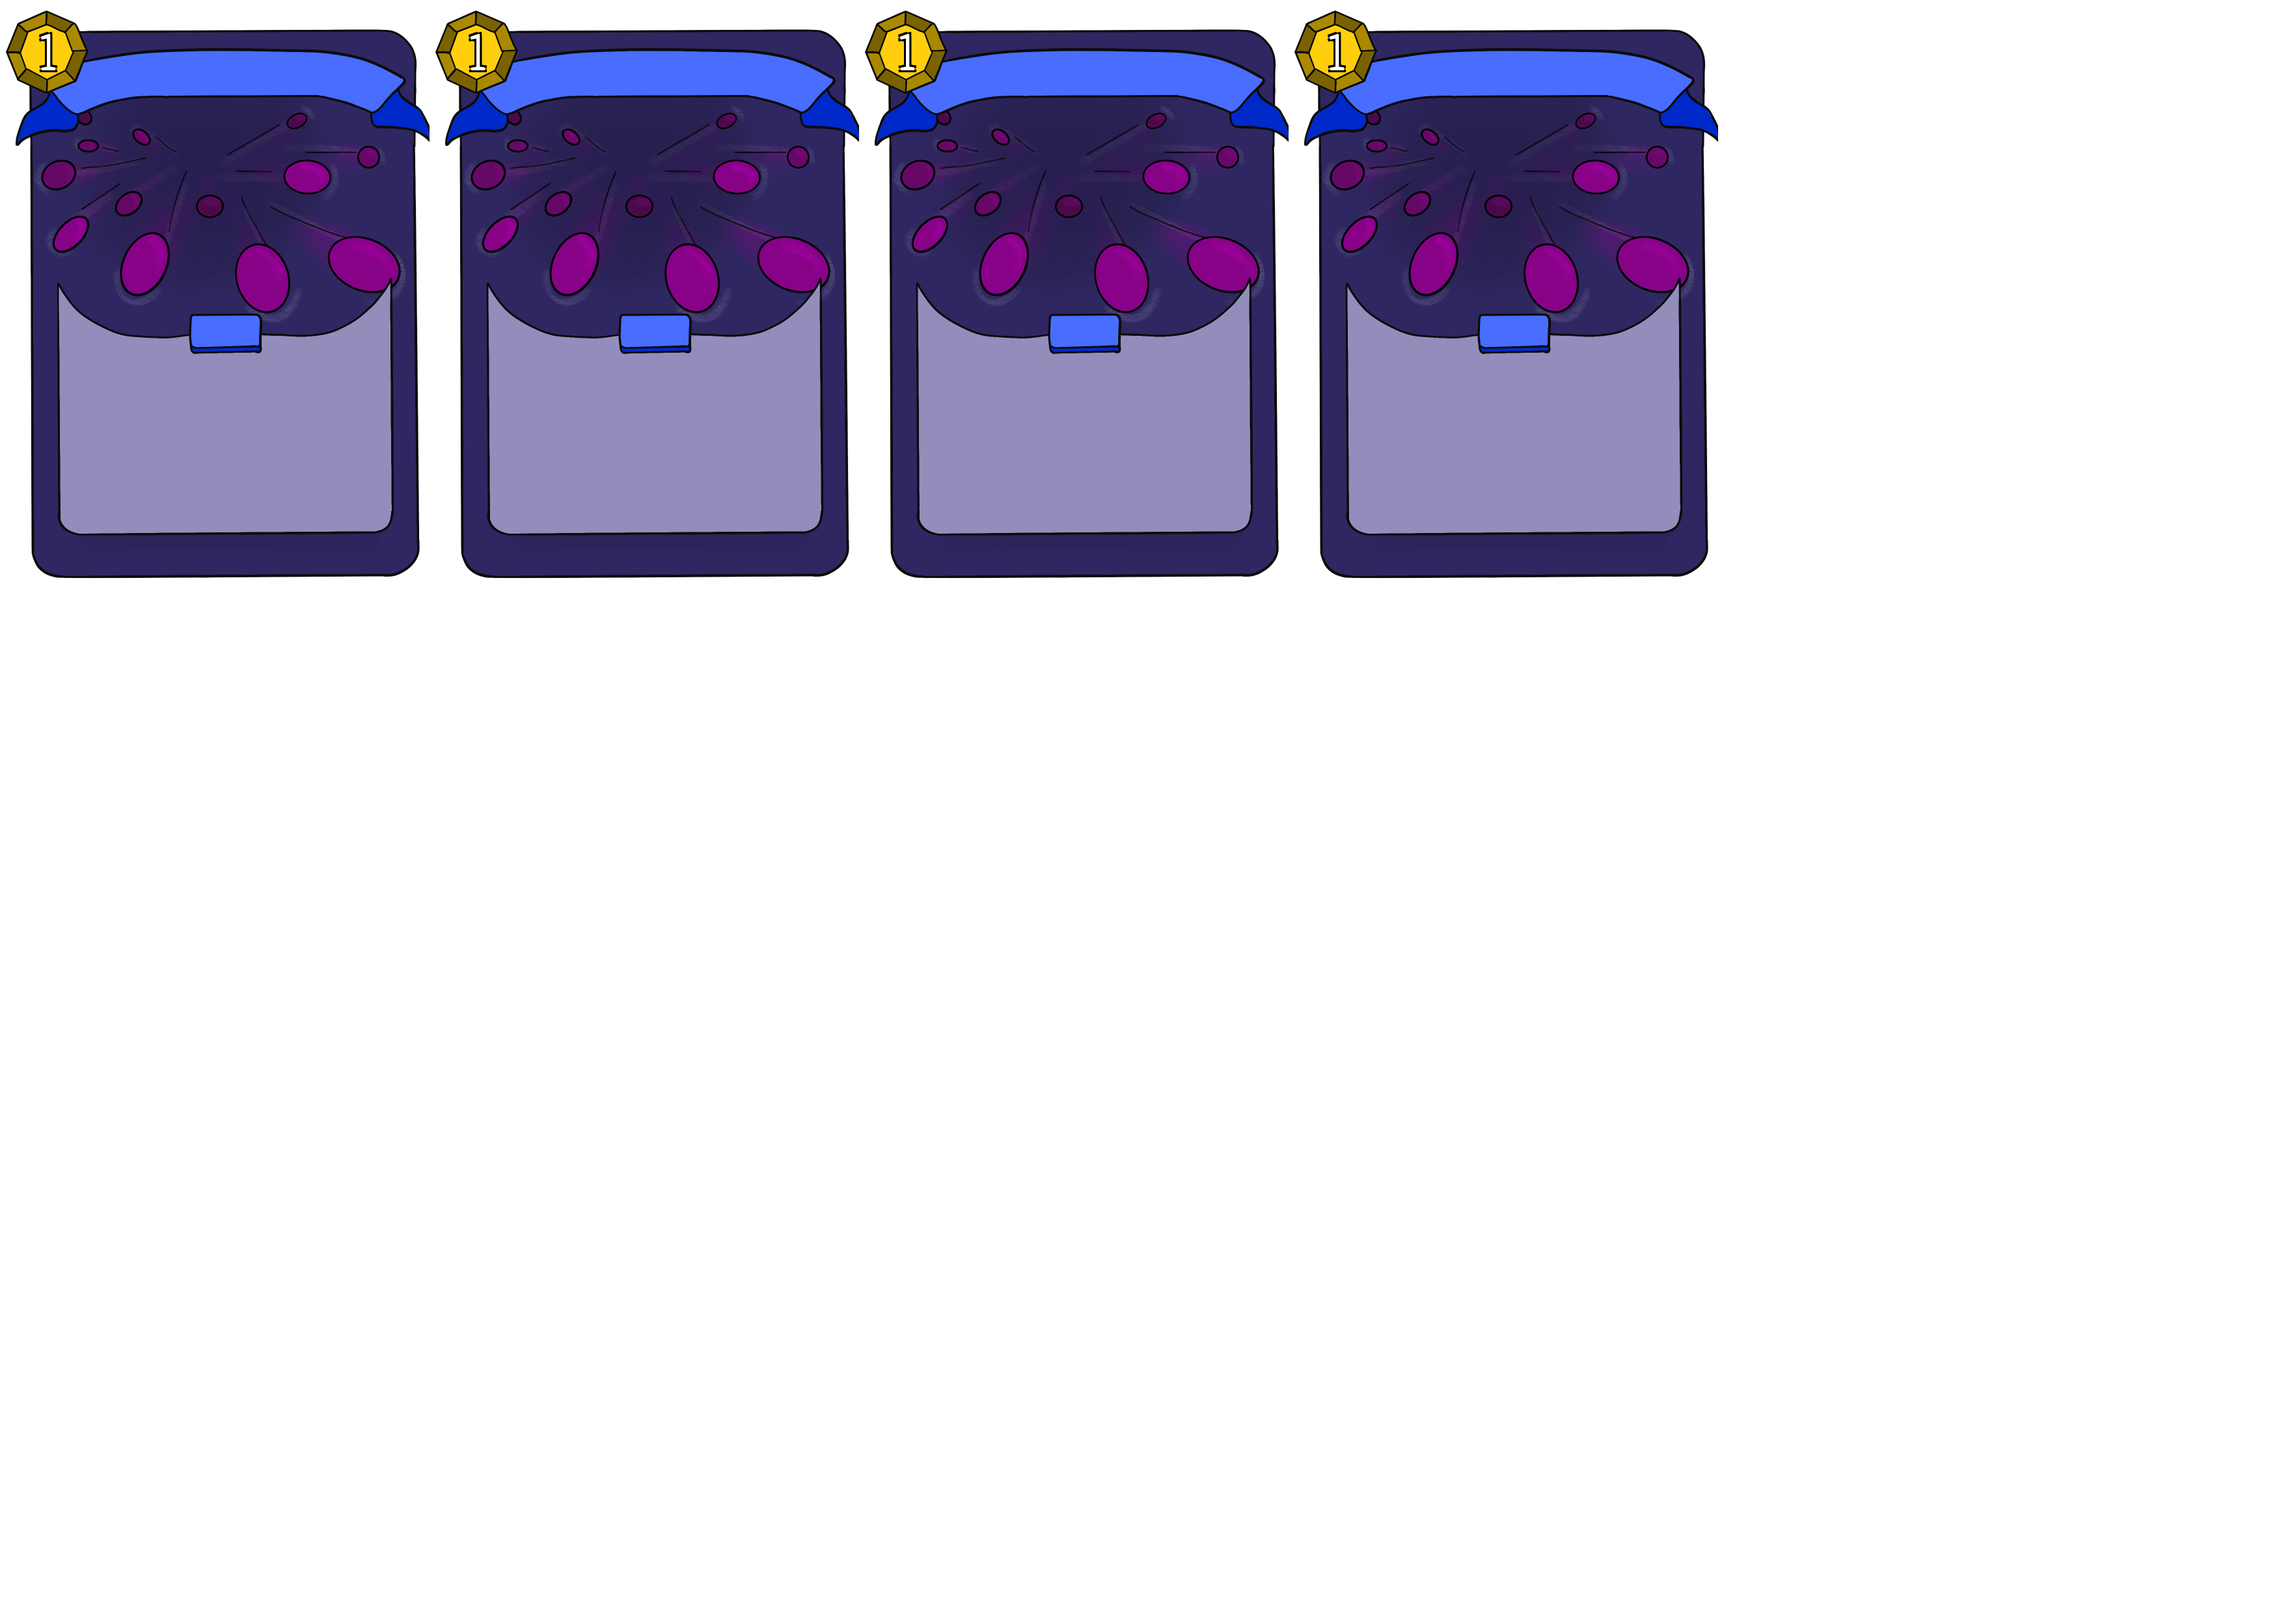
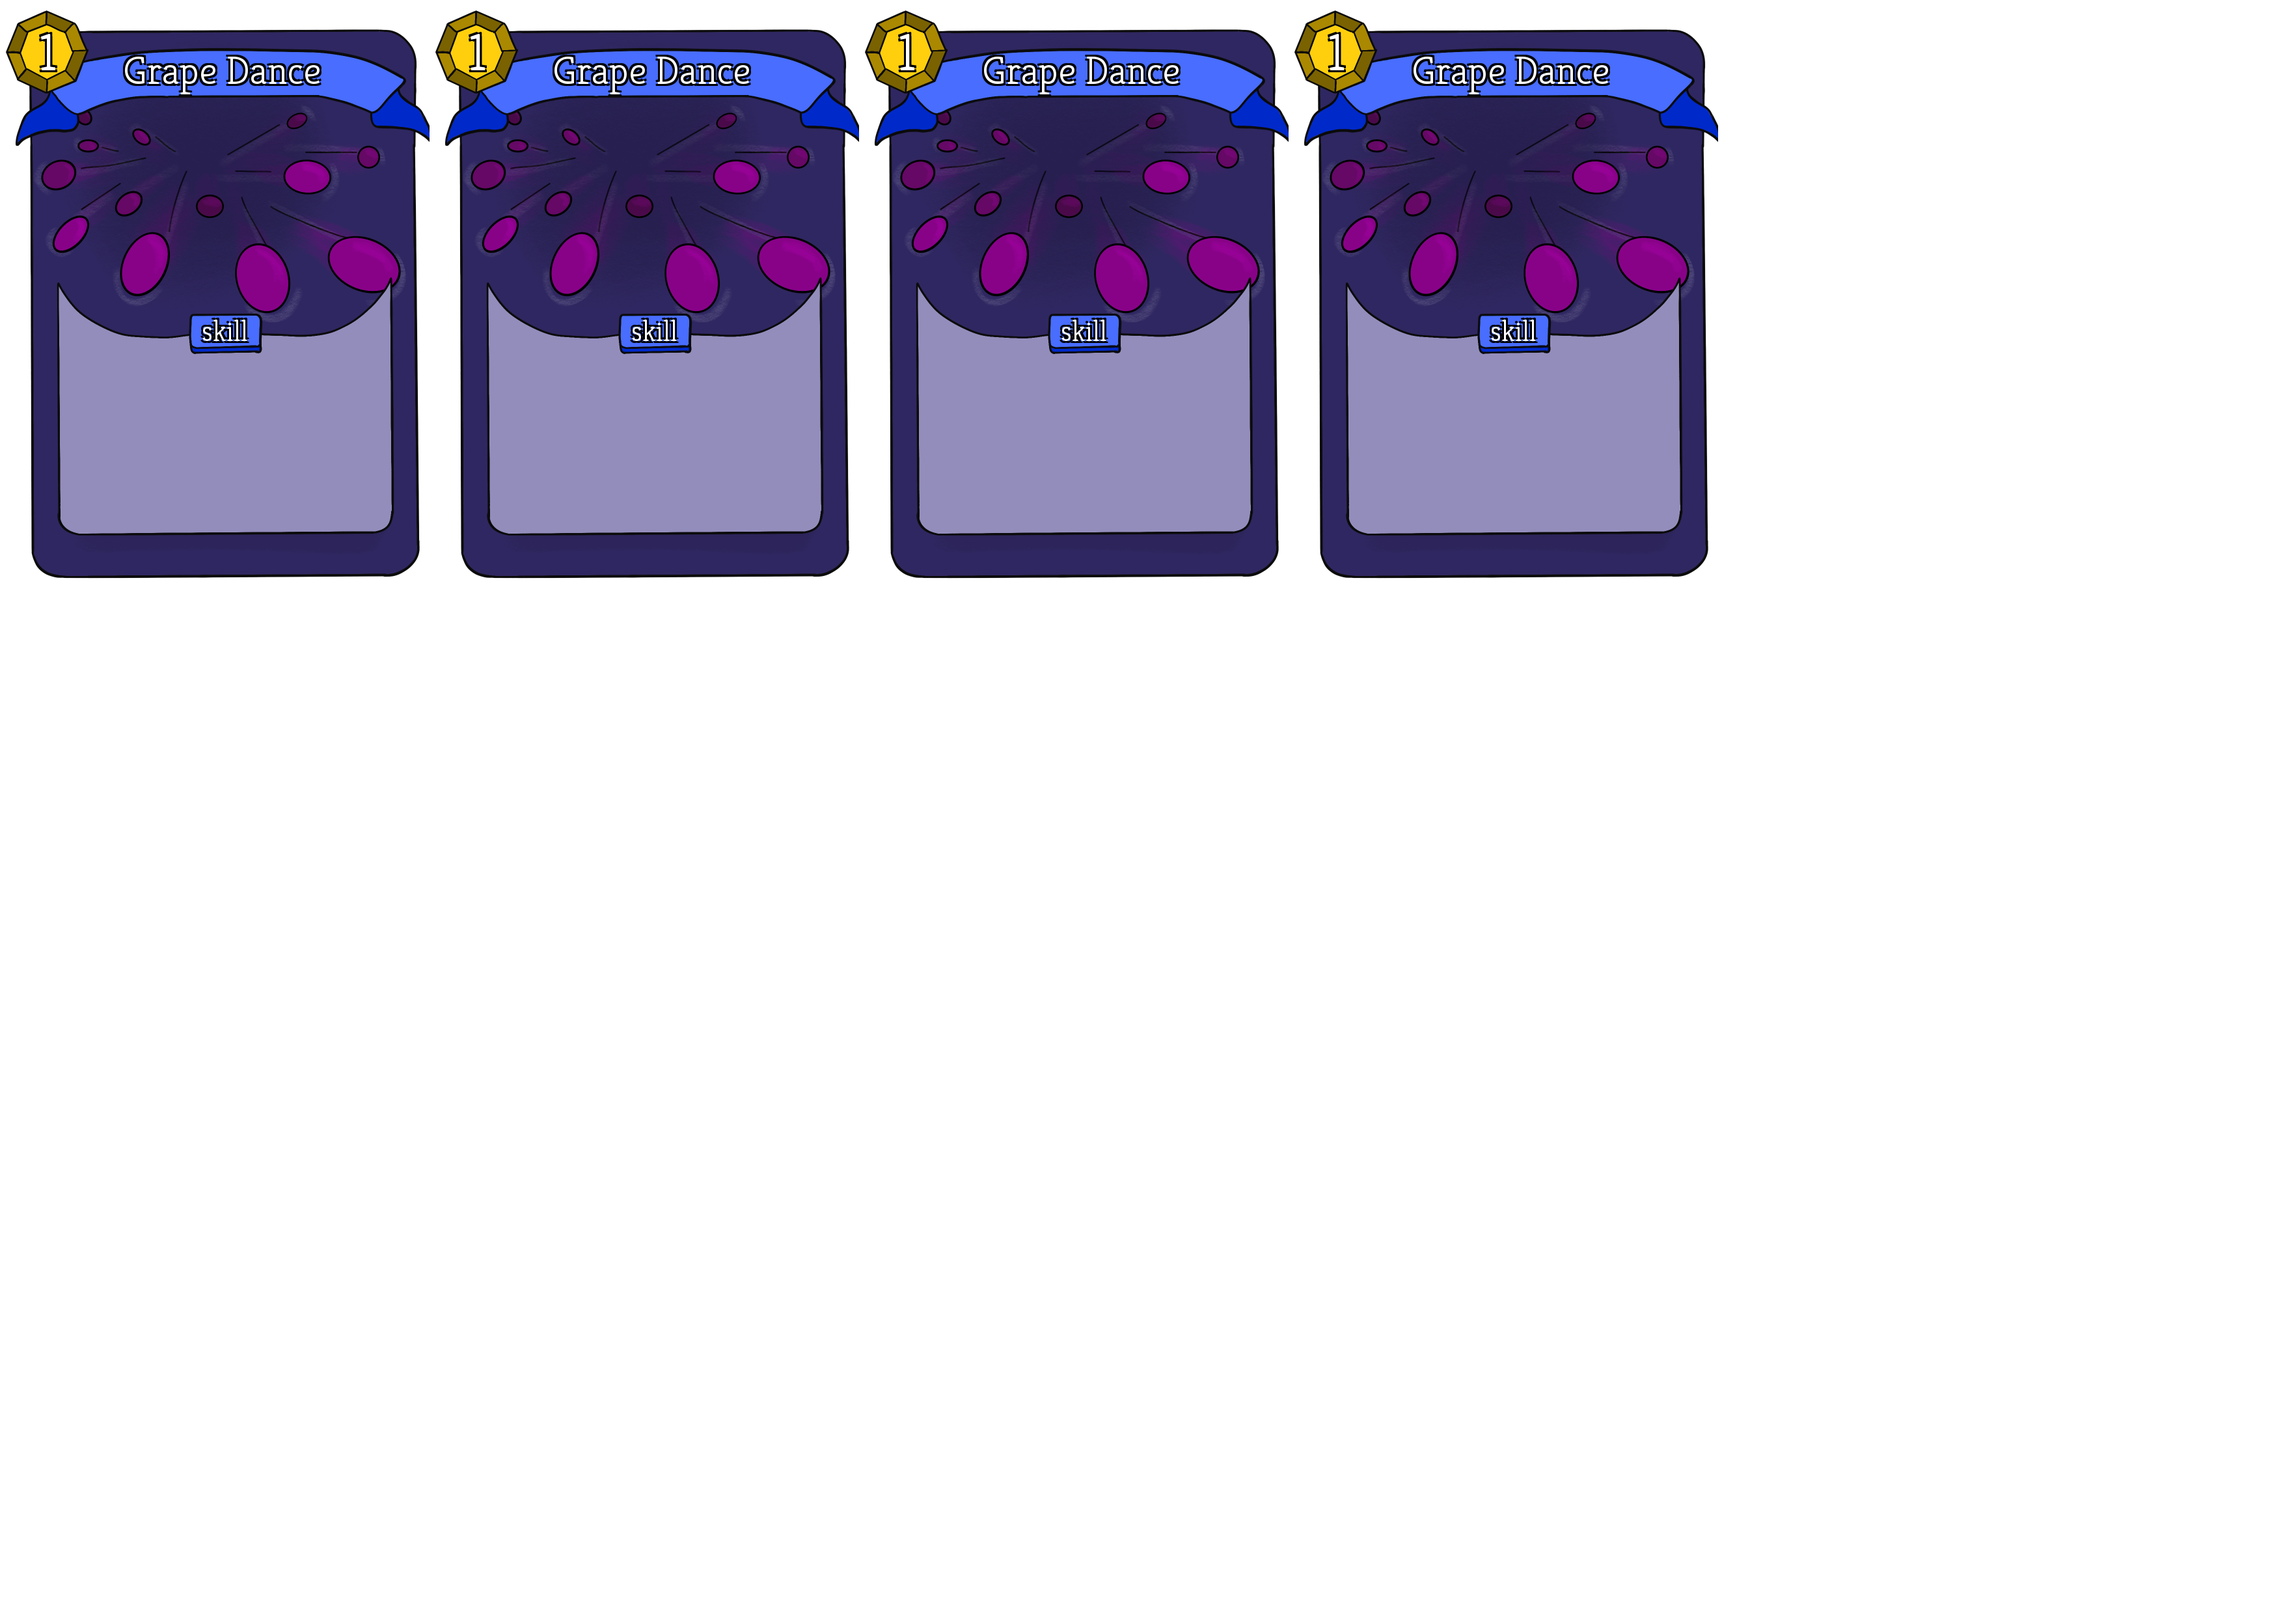
auto card placer now also does name and type

diff --git a/cardGen.py b/cardGen.py
@@ -1,9 +1,9 @@
 import cv2
 import numpy as np
 
-cards = [ # art, name, energy, description
+cards = [ # art, name, type, energy, description
     #("./cards/",1,"",[""]),
-    ("./art/cards/grape_dance.png","Grape Dance", 1,["Add 3 [grape]s","exhaust"]) for x in range(14)
+    ("./art/cards/grape_dance.png","Grape Dance", "skill", 1,["Add 3 [grape]s","exhaust"]) for x in range(14)
 ]
 
 from PIL import Image, ImageDraw, ImageFont
@@ -32,10 +32,22 @@ def overlay(img: cv2.typing.MatLike,subimg: cv2.typing.MatLike,x: int,y: int,cap
         tSize, _ = cv2.getTextSize(caption,cv2.FONT_HERSHEY_SIMPLEX,1,2)
         cv2.putText(img,caption,(x+s[0]//2-tSize[0]//2,y+s[1]+35),cv2.FONT_HERSHEY_SIMPLEX,1,(0,0,0),2)
 
-def placeCard(img:cv2.typing.MatLike, card: cv2.typing.MatLike,x:int,y:int,name:str,energy:int,description:list[str]):
+def placeCard(img:cv2.typing.MatLike, card: cv2.typing.MatLike,x:int,y:int,name:str,ctype:str,energy:int,description:list[str]):
     overlay(img,card,x,y)
-    
+
+    #energy
     img = putTextPIL(img,str(energy),(x+60,y+30),80,(255,255,255),True,(0,0,0))
+
+    #name
+    font = ImageFont.truetype("./misc/kreon.ttf",60)
+    img = putTextPIL(img,name,(x+340-font.getmask(name).getbbox()[2]//2,y+70),60,(255,255,255),True,(0,0,0))
+
+    #type
+    font = ImageFont.truetype("./misc/kreon.ttf",45)
+    img = putTextPIL(img,ctype,(x+345-font.getmask(ctype).getbbox()[2]//2,y+480),45,(255,255,255),True,(0,0,0))
+
+    #description
+    
 
     return img
 
@@ -54,7 +66,7 @@ for c in cards:
         negBorderX:card.shape[1]-negBorderX,
     ] #crop
 
-    A4image = placeCard(A4image,card,x,y,c[1],c[2],c[3])
+    A4image = placeCard(A4image,card,x,y,c[1],c[2],c[3],c[4])
 
     blankPage = False
     x+=card.shape[1]+offset
